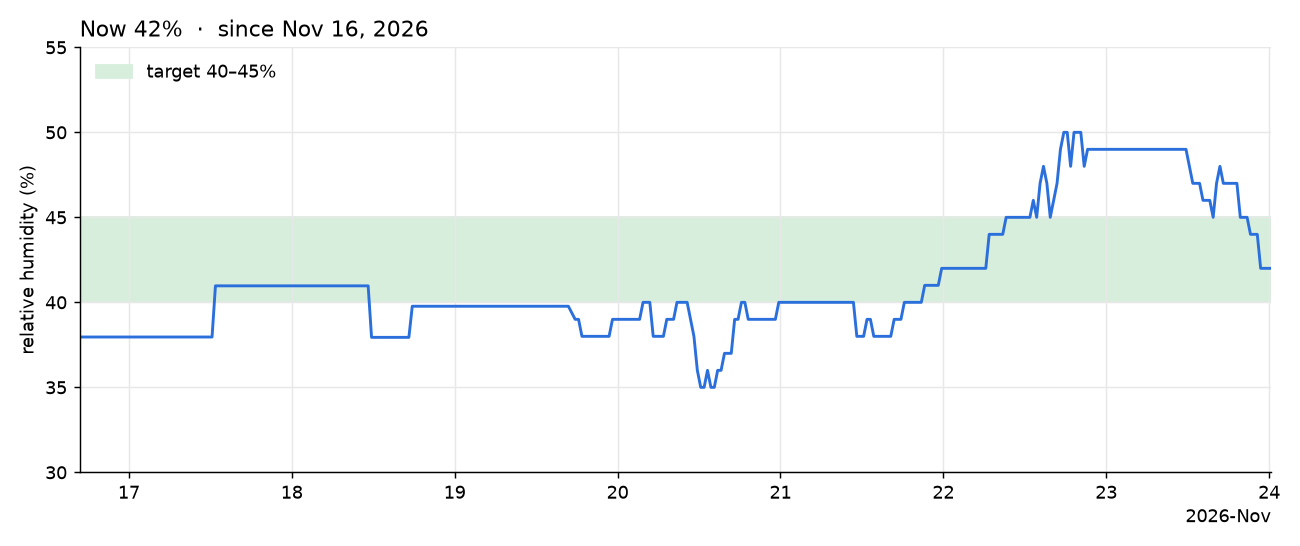
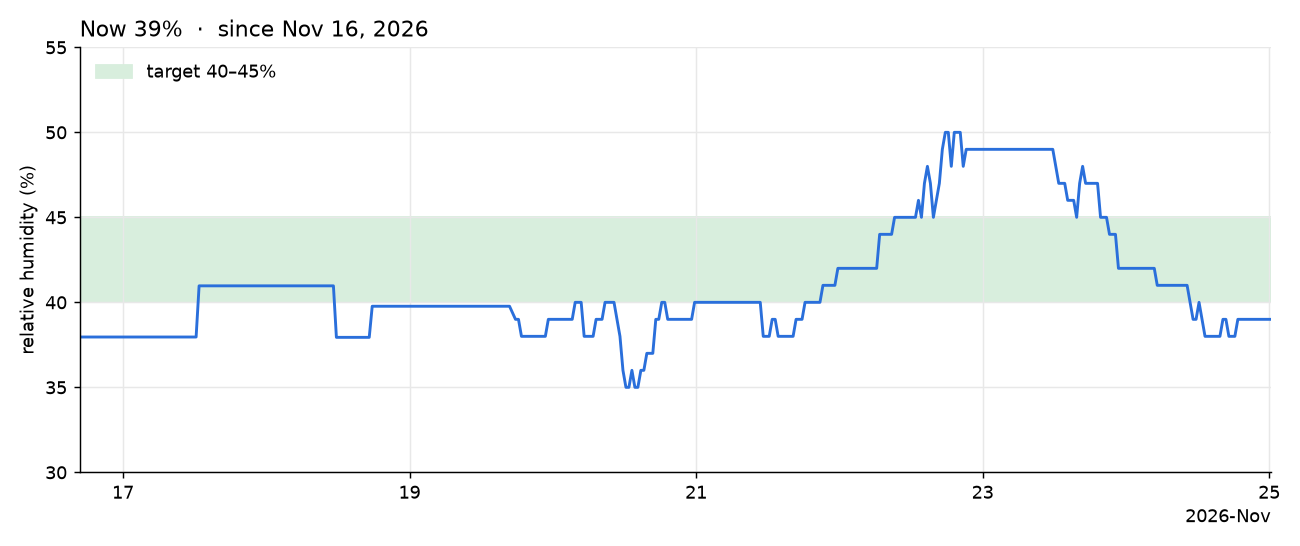
Daily update 2026-11-25

diff --git a/index.html b/index.html
@@ -13,10 +13,10 @@ img{width:100%;height:auto;display:block;border-radius:6px;background:#fff}
 footer{color:var(--muted);font-size:13px}
 </style></head><body><main>
 <h1>Home</h1>
-<p class="sub">Updated daily; last update Nov 24, 2026 12:20 AM.</p>
-<section><h2>Piano humidity</h2><img src="piano-humidity.png?v=202611240020" alt="Humidity at the piano since the sensor was installed, with the 40 to 45 percent target band"></section>
+<p class="sub">Updated daily; last update Nov 25, 2026 12:20 AM.</p>
+<section><h2>Piano humidity</h2><img src="piano-humidity.png?v=202611250020" alt="Humidity at the piano since the sensor was installed, with the 40 to 45 percent target band"></section>
 <h1>Outdoor light</h1>
 <p class="sub">Light level outside, one line per day, each month on its own chart.</p>
-<section><h2>November 2026</h2><img src="2026-11.png?v=20261124" alt="Outdoor light in November 2026, one line per day"></section>
+<section><h2>November 2026</h2><img src="2026-11.png?v=20261125" alt="Outdoor light in November 2026, one line per day"></section>
 <footer>Humidity: a sensor at the piano, shown as the 30-minute median. Light: measured by an outdoor light sensor, every few minutes, shown as the 10-minute median. The scale is logarithmic: each gridline is ten times brighter than the one below.</footer>
 </main></body></html>
